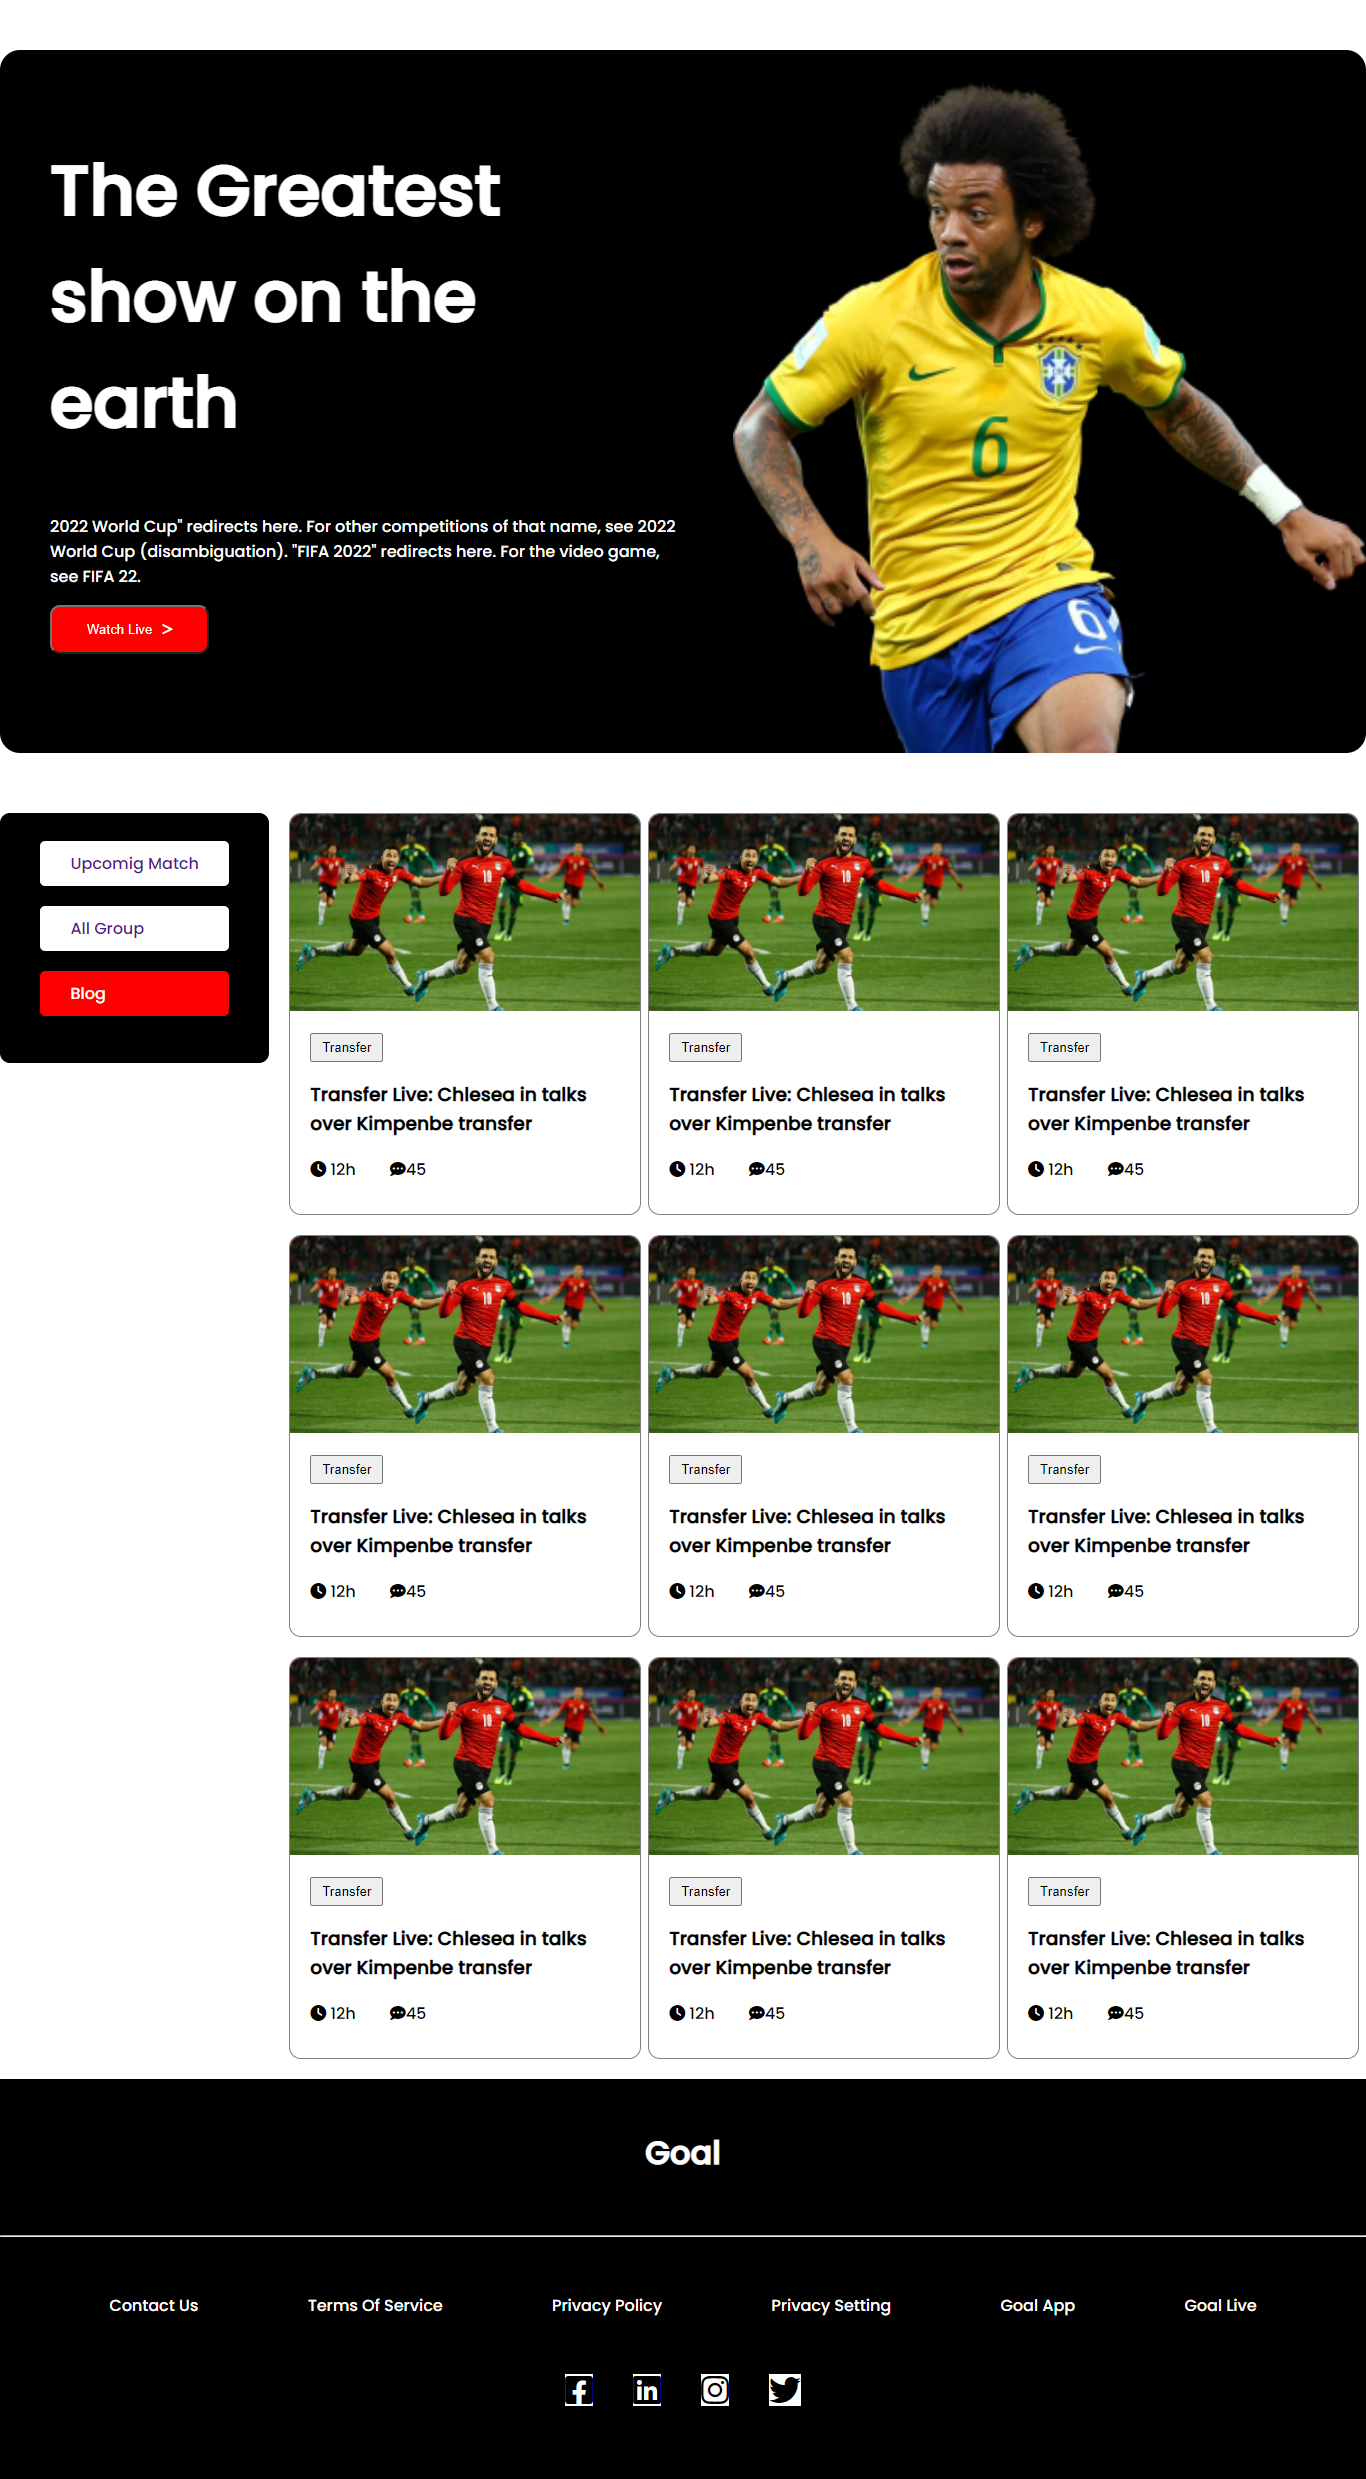
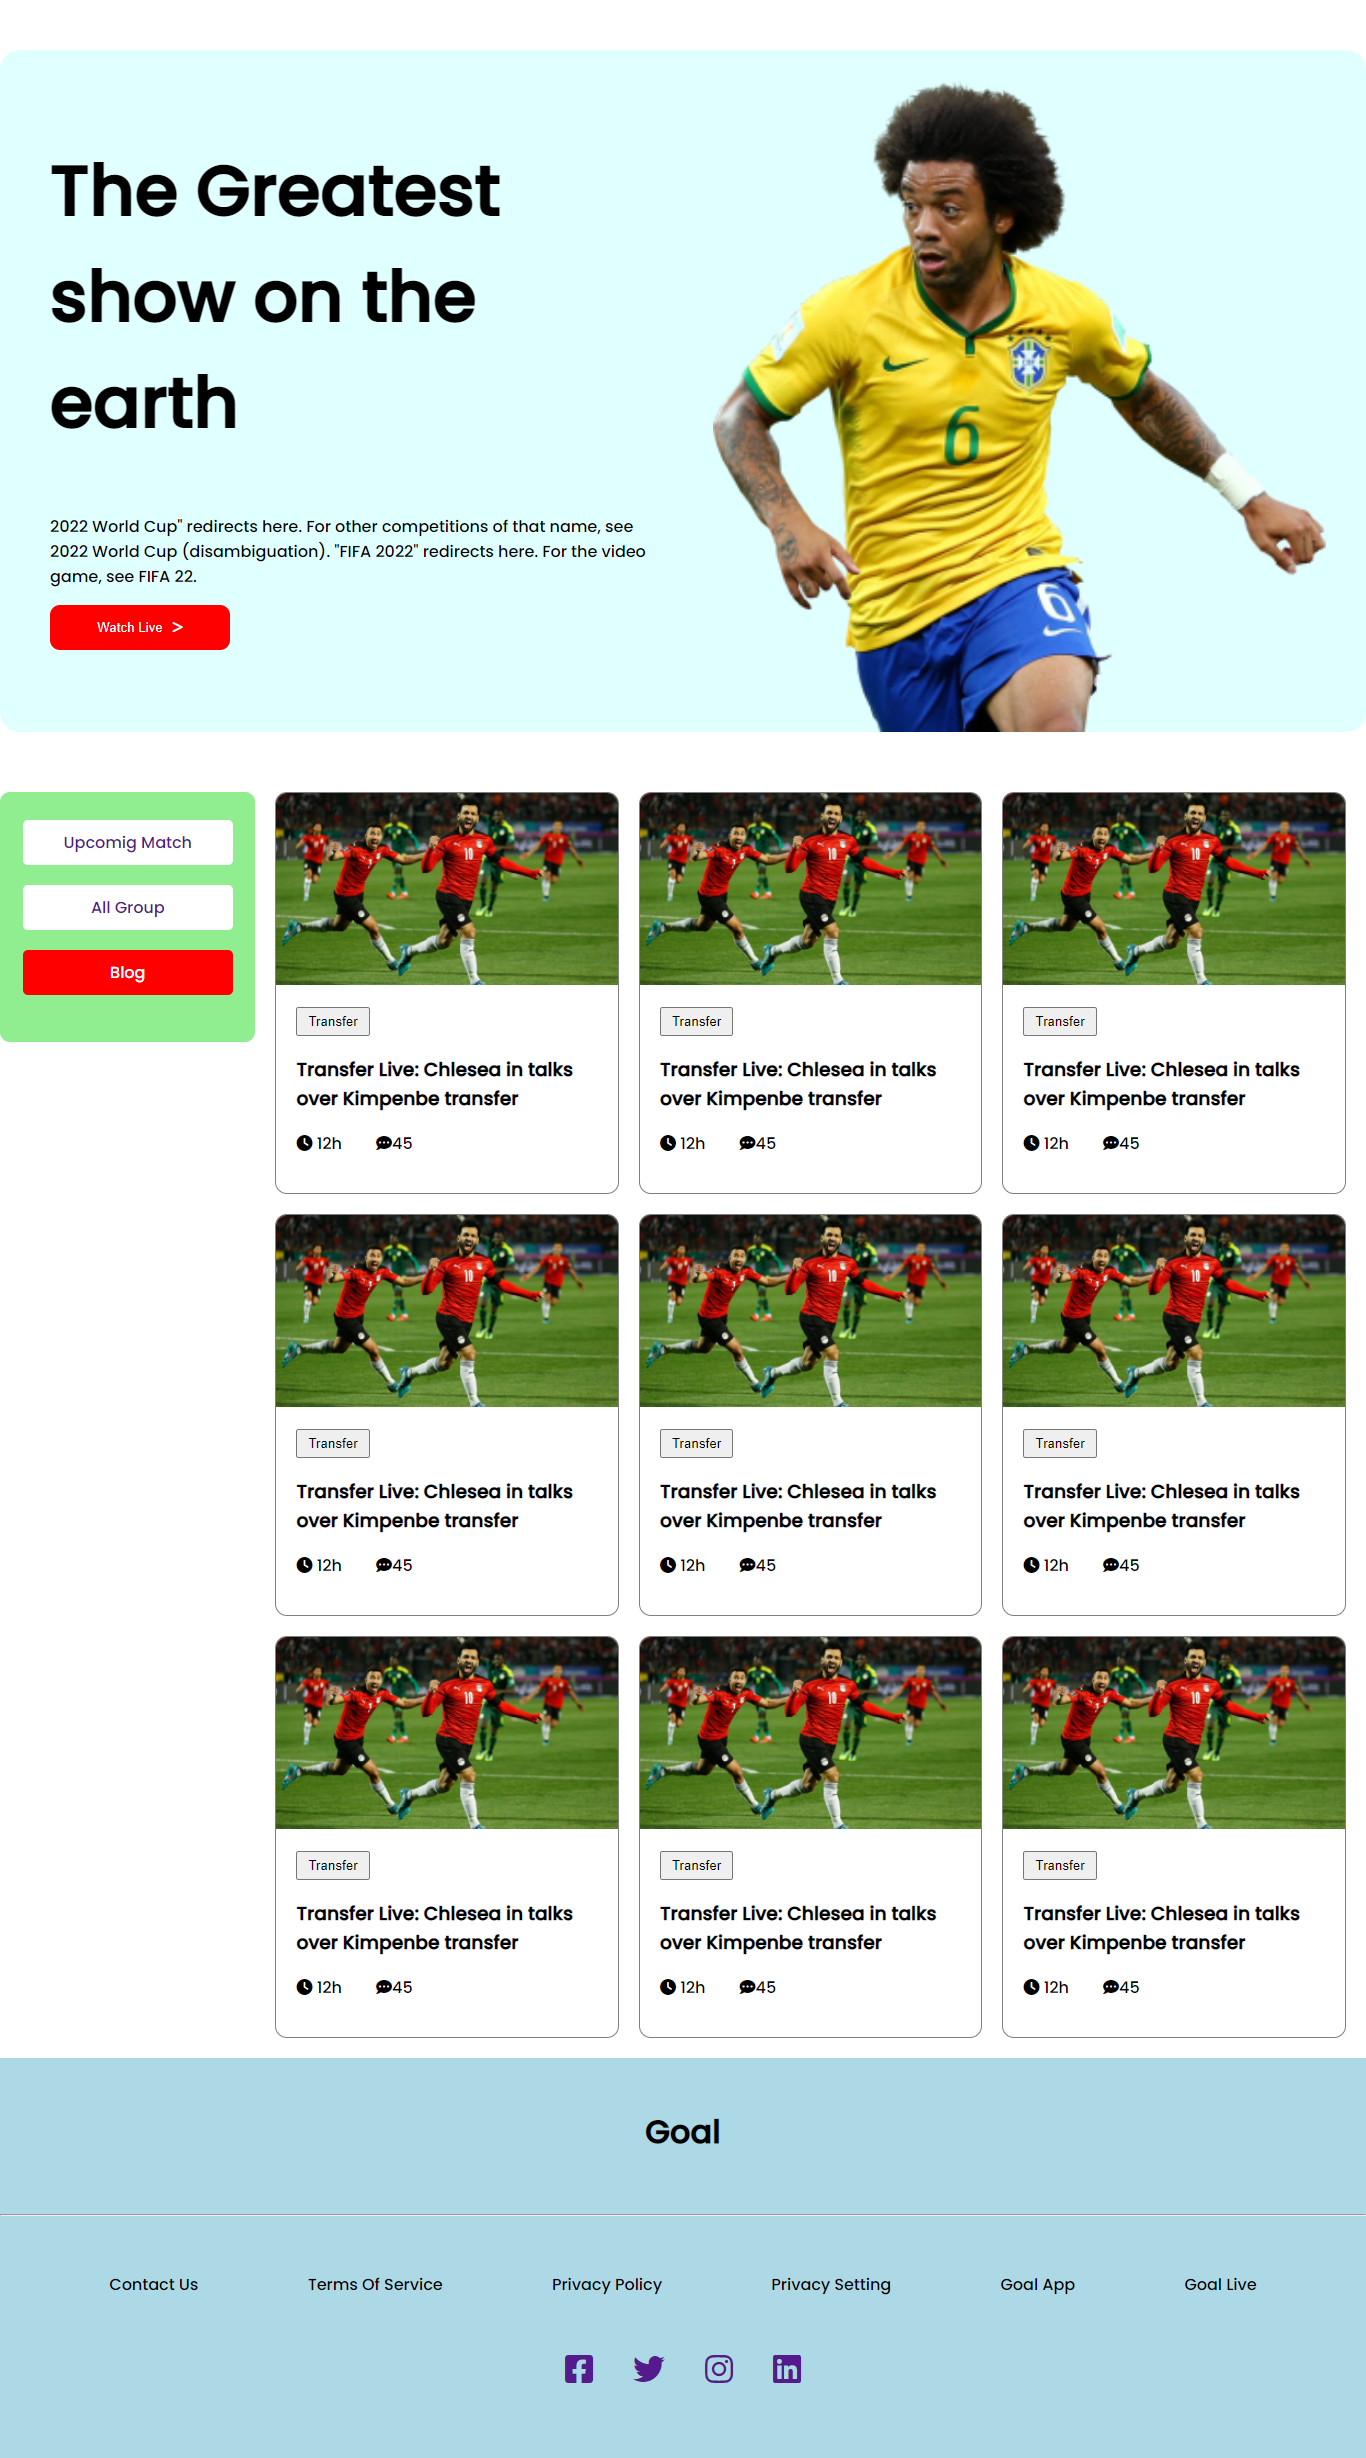
Final Change

diff --git a/style.css b/style.css
@@ -18,7 +18,7 @@ body {
 .banners{
     width: 100%;
     height: 100%;
-    background-color: black;
+    background-color: lightcyan;
     border-radius: 20px;
     display: flex;
     margin-top: 50px;
@@ -34,6 +34,7 @@ body {
     width: 50%;
     margin-top: 30px;
     margin-left: 50px;
+    margin-right: 40px;
 }
 .banner-image img{
     height: 100%;
@@ -41,26 +42,27 @@ body {
 }
 
 .banner-title {
-    color: white;
+    color: black;
     font-weight: 600px;
     font-size: 70px;
     
 }
 
 .banner-text {
-    color: white;
+    color: black;
 }
 .button{
     background-color: red;
-    padding: 15px 35px;
+    padding: 15px 25px;
     border-radius: 10px;
+    border: 0px;
     color: white;
     margin-bottom: 40px;
-    transition: width 3s, height 3s;
+    width: 180px;
+    transition: width 2s;
 }
 .button:hover{
     background-color: goldenrod;
-    height: 40px;
     width: 200px;
 }
 .fa-greater-than{
@@ -77,17 +79,20 @@ body {
 side menu style
 -------------------- */
 .side-menu{
-    background-color: black;
+    background-color: lightgreen;
     border-radius: 10px;
     height: 250px;
-    width: 25%;
+    width: 320px;
     display: flex;
     justify-content: center;
     align-items: center;
 }
+
 .menu a{
     display: flex;
     flex-direction: column;
+    align-items: center;
+    justify-content: center;
     text-decoration: none;
 }
 .anchor:focus{
@@ -101,6 +106,7 @@ side menu style
     border-radius: 5px;
     padding: 10px 30px;
     margin-bottom: 20px;
+    width: 150px;
 }
 
 #blog-color{
@@ -119,9 +125,10 @@ side menu style
 .all-blog{
     border: 1px solid gray;
     border-radius: 12px;
-    width: 300px;
+    width: auto;
     height:400px;
     margin-bottom: 20px;
+    margin-right: 20px;
 }
 
 .all-blog .player-image img{
@@ -155,6 +162,13 @@ side menu style
     margin-bottom: 40px;
     
 }
+.flag-align{
+    display: flex;
+    align-items: center;
+}
+#vs-gap{
+    margin: 0px 10px;
+}
 .view-button{
     display: none;
 }
@@ -163,7 +177,7 @@ side menu style
 footer style 
 ----------------*/
 .footer{
-    background-color: black;
+    background-color: lightblue;
     height: 400px;
     width: 100%;
 }
@@ -176,7 +190,7 @@ footer style
     margin: 50px 0px;
 }
 .goal-text{
-    color: white;
+    color: black;
 }
 .secure-part{
     display: flex;
@@ -184,7 +198,7 @@ footer style
     margin-top: 40px;
 }
 .secure-part p{
-    color: white;
+    color: black;
 }
 
 /* -------------------
@@ -204,10 +218,8 @@ match schedule style
     justify-content: center;
 }
 .social-icon i{
-    background-color: white;
     margin: 40px 20px;
 }
-
 
 
 /*-------------------------------------------
@@ -251,7 +263,7 @@ media queries responsive style for mobile view
         grid-template-columns: repeat(1, 1fr);
     }
     .all-blog{
-        width: 100%;
+        width: auto;
     }
     .match-schedule{
         display: grid;
@@ -273,7 +285,10 @@ media queries responsive style for mobile view
 media quieries responsive style for tablet view
 --------------------------------------------- */
 @media only screen and (min-width: 688px) and (max-width: 992px){
-    
+    .button:hover{
+        background-color: goldenrod;
+        width: 200px;
+    }
     .container{
         display: flex;
         flex-direction: column;
@@ -293,9 +308,9 @@ media quieries responsive style for tablet view
     .anchor{
         border: 1px solid gray;
         border-radius: 10px;
-        padding: 10px 60px;
+        padding: 10px 40px;
         margin-bottom: 20px;
-        margin-left: 50px;
+        margin-left: 20px;
     }
     .match-summary{
         display: grid;

diff --git a/match-schedule.html b/match-schedule.html
@@ -43,58 +43,71 @@
         <div class="match-schedule">
             <div class="flag">
                 <div class="flag-and-details">
-                    <img src="assets/Flag.png" alt="">
-                    <span>Vs</span>
+                    <div class="flag-align">
+                        <img src="assets/Flag.png" alt="">
+                    <span id="vs-gap">VS</span>
                     <img src="assets/germany Flag.png" alt="">
+                    </div>
                     <h2>Germany VS France </h2>
                     <p>April 01, 2023, 1.00 AM</p>
                 </div>
             </div>
             <div class="flag">
                 <div class="flag-and-details">
-                    <img src="assets/Flag.png" alt="">
-                    <span class="vs">Vs</span>
+                    <div class="flag-align">
+                        <img src="assets/Flag.png" alt="">
+                    <span id="vs-gap">VS</span>
                     <img src="assets/germany Flag.png" alt="">
+                    </div>
                     <h2>Germany VS France </h2>
                     <p>April 01, 2023, 1.00 AM</p>
                 </div>
             </div>
             <div class="flag">
                 <div class="flag-and-details">
-                    <img src="assets/Flag.png" alt="">
-                    <span>Vs</span>
+                    <div class="flag-align">
+                        <img src="assets/Flag.png" alt="">
+                    <span id="vs-gap">VS</span>
                     <img src="assets/germany Flag.png" alt="">
+                    </div>
                     <h2>Germany VS France </h2>
                     <p>April 01, 2023, 1.00 AM</p>
                 </div>
             </div>
             <div class="flag">
                 <div class="flag-and-details">
-                    <img src="assets/Flag.png" alt="">
-                    <span>Vs</span>
+                    <div class="flag-align">
+                        <img src="assets/Flag.png" alt="">
+                    <span id="vs-gap">VS</span>
                     <img src="assets/germany Flag.png" alt="">
+                    </div>
                     <h2>Germany VS France </h2>
                     <p>April 01, 2023, 1.00 AM</p>
                 </div>
             </div>
             <div class="flag">
                 <div class="flag-and-details">
-                    <img src="assets/Flag.png" alt="">
-                    <span>Vs</span>
+                    <div class="flag-align">
+                        <img src="assets/Flag.png" alt="">
+                    <span id="vs-gap">VS</span>
                     <img src="assets/germany Flag.png" alt="">
+                    </div>
                     <h2>Germany VS France </h2>
                     <p>April 01, 2023, 1.00 AM</p>
                 </div>
             </div>
             <div class="flag">
                 <div class="flag-and-details">
-                    <img src="assets/Flag.png" alt="">
-                    <span>Vs</span>
+                    <div class="flag-align">
+                        <img src="assets/Flag.png" alt="">
+                    <span id="vs-gap">VS</span>
                     <img src="assets/germany Flag.png" alt="">
+                    </div>
                     <h2>Germany VS France </h2>
                     <p>April 01, 2023, 1.00 AM</p>
                 </div>
             </div>
+           
         </div>
     </section>
 

diff --git a/index.html b/index.html
@@ -37,7 +37,7 @@
                 </div>
                 <div><a class="anchor" href="">All Group</a>
                 </div>
-                <div><a id="blog-color" class="anchor" href="">Blog</a></div>
+                <div><a id="blog-color" class="anchor" href="index.html">Blog</a></div>
             </div>
         </div>
         <!-- side menu end -->
@@ -190,10 +190,13 @@
     </div>
     <!-- social icon start -->
     <div class="social-icon">
-        <i class="fa-brands fa-facebook-square fa-2x"></i>
-        <i class="fa-brands fa-linkedin fa-2x"></i>
-        <i class="fa-brands fa-instagram fa-2x"></i>
-        <i class="fa-brands fa-twitter fa-2x"></i>
+        <a href="https://www.facebook.com/shihab780/"><i class="fa-brands fa-facebook-square fa-2x"></i></a>
+
+        <a href="https://twitter.com/H1Shihab"><i class="fa-brands fa-twitter fa-2x"></i></a>
+
+        <a href="https://www.instagram.com/shihabhasan981/"><i class="fa-brands fa-instagram fa-2x"></i></a>
+
+        <a href="https://www.linkedin.com/in/md-rakibul-hasan-482786207/"><i class="fa-brands fa-linkedin fa-2x"></i></a>
     </div>
     <!-- social icon end -->
 </footer>
